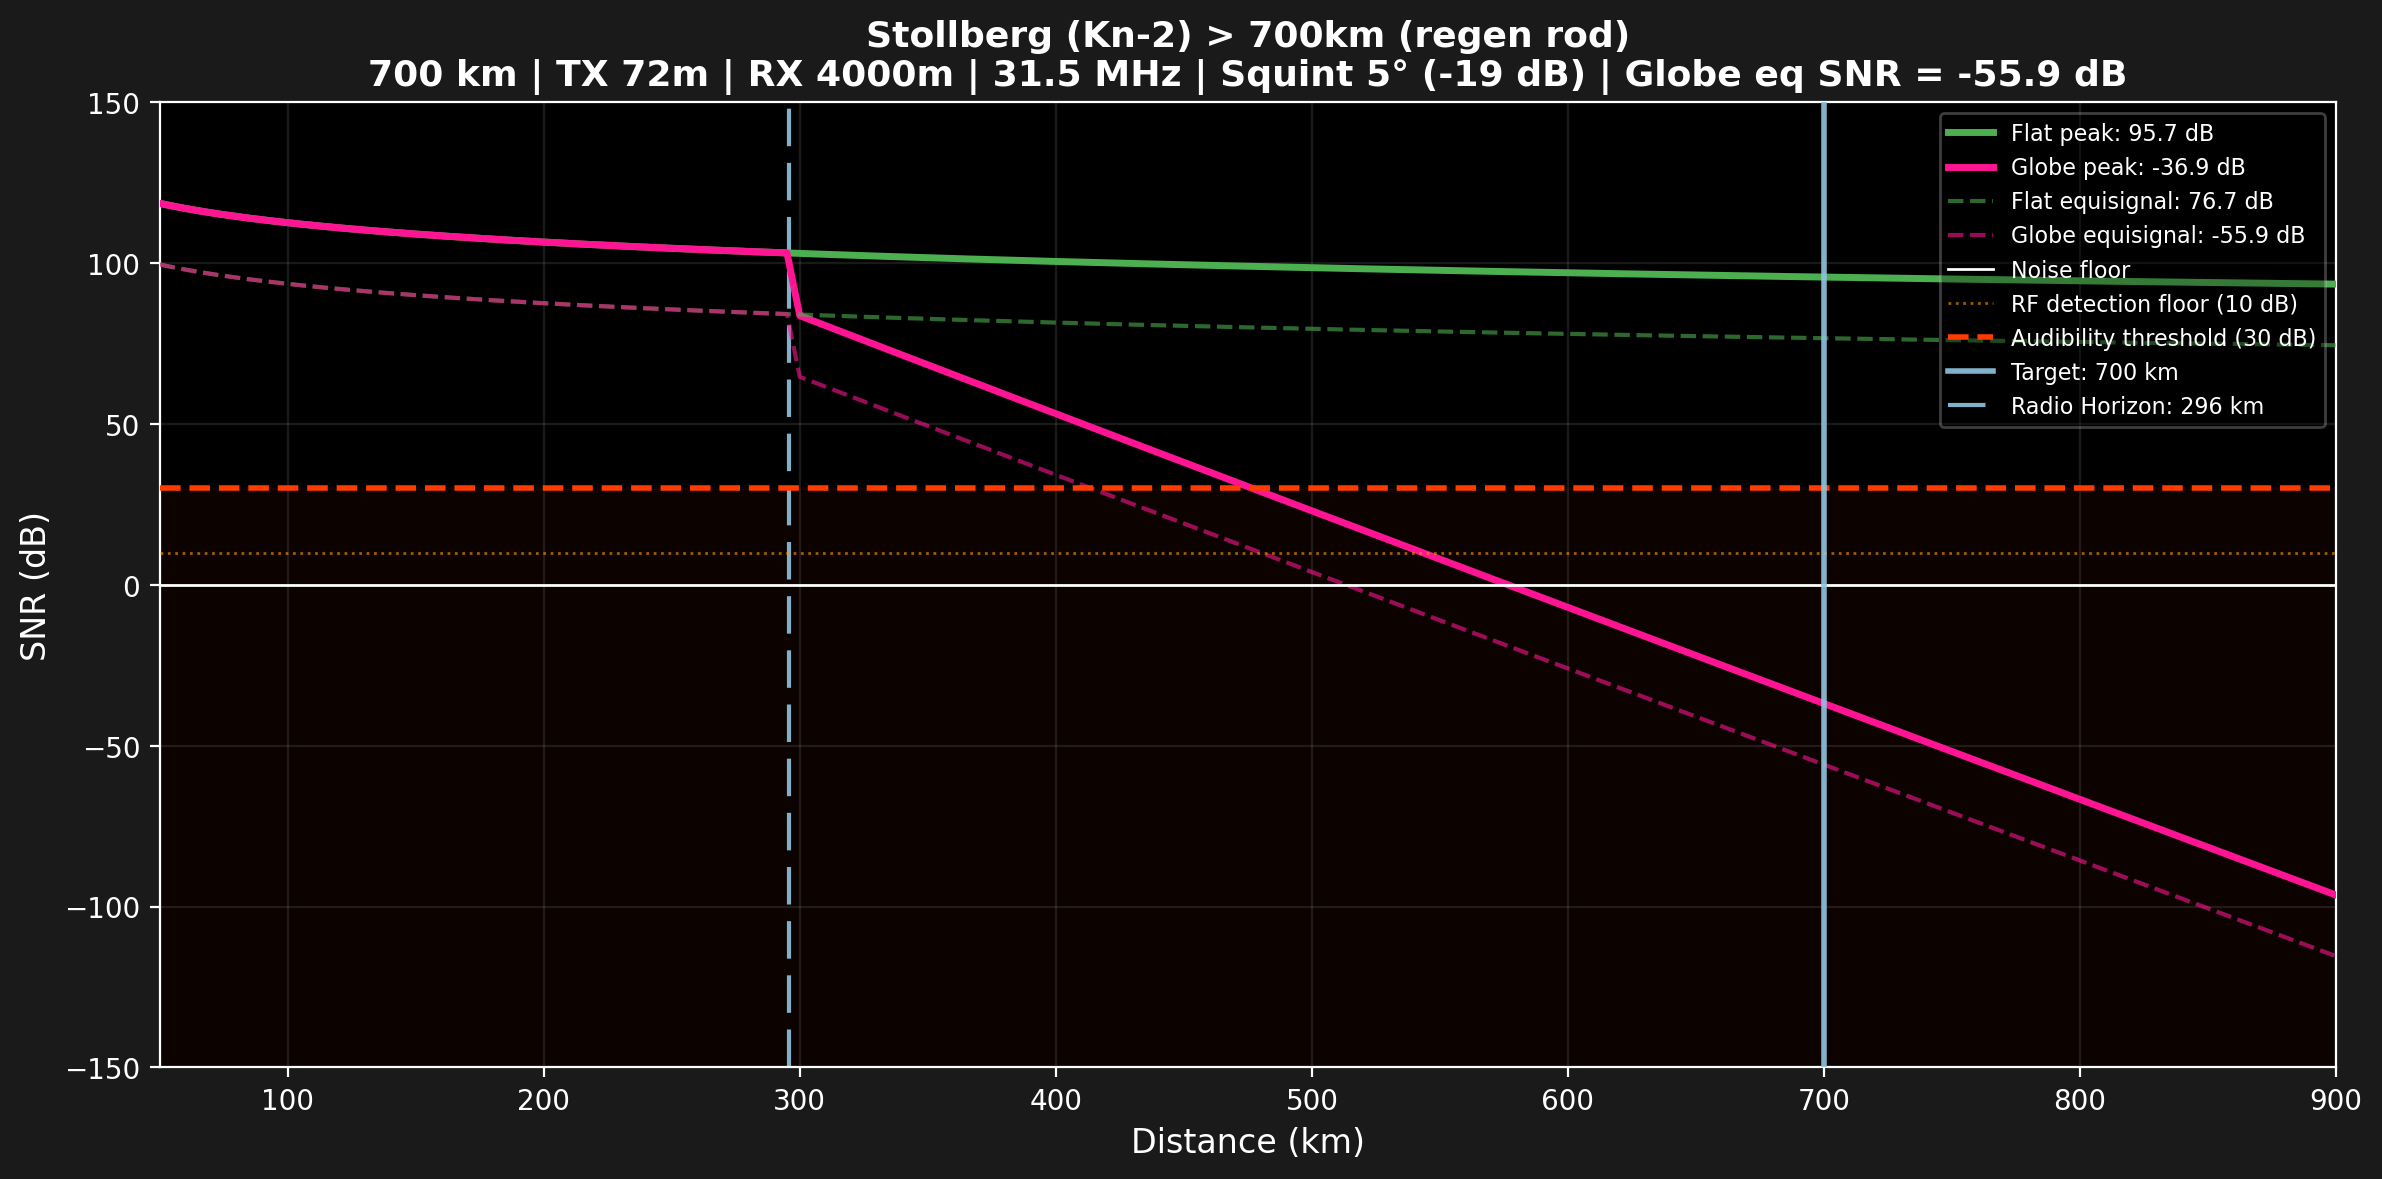
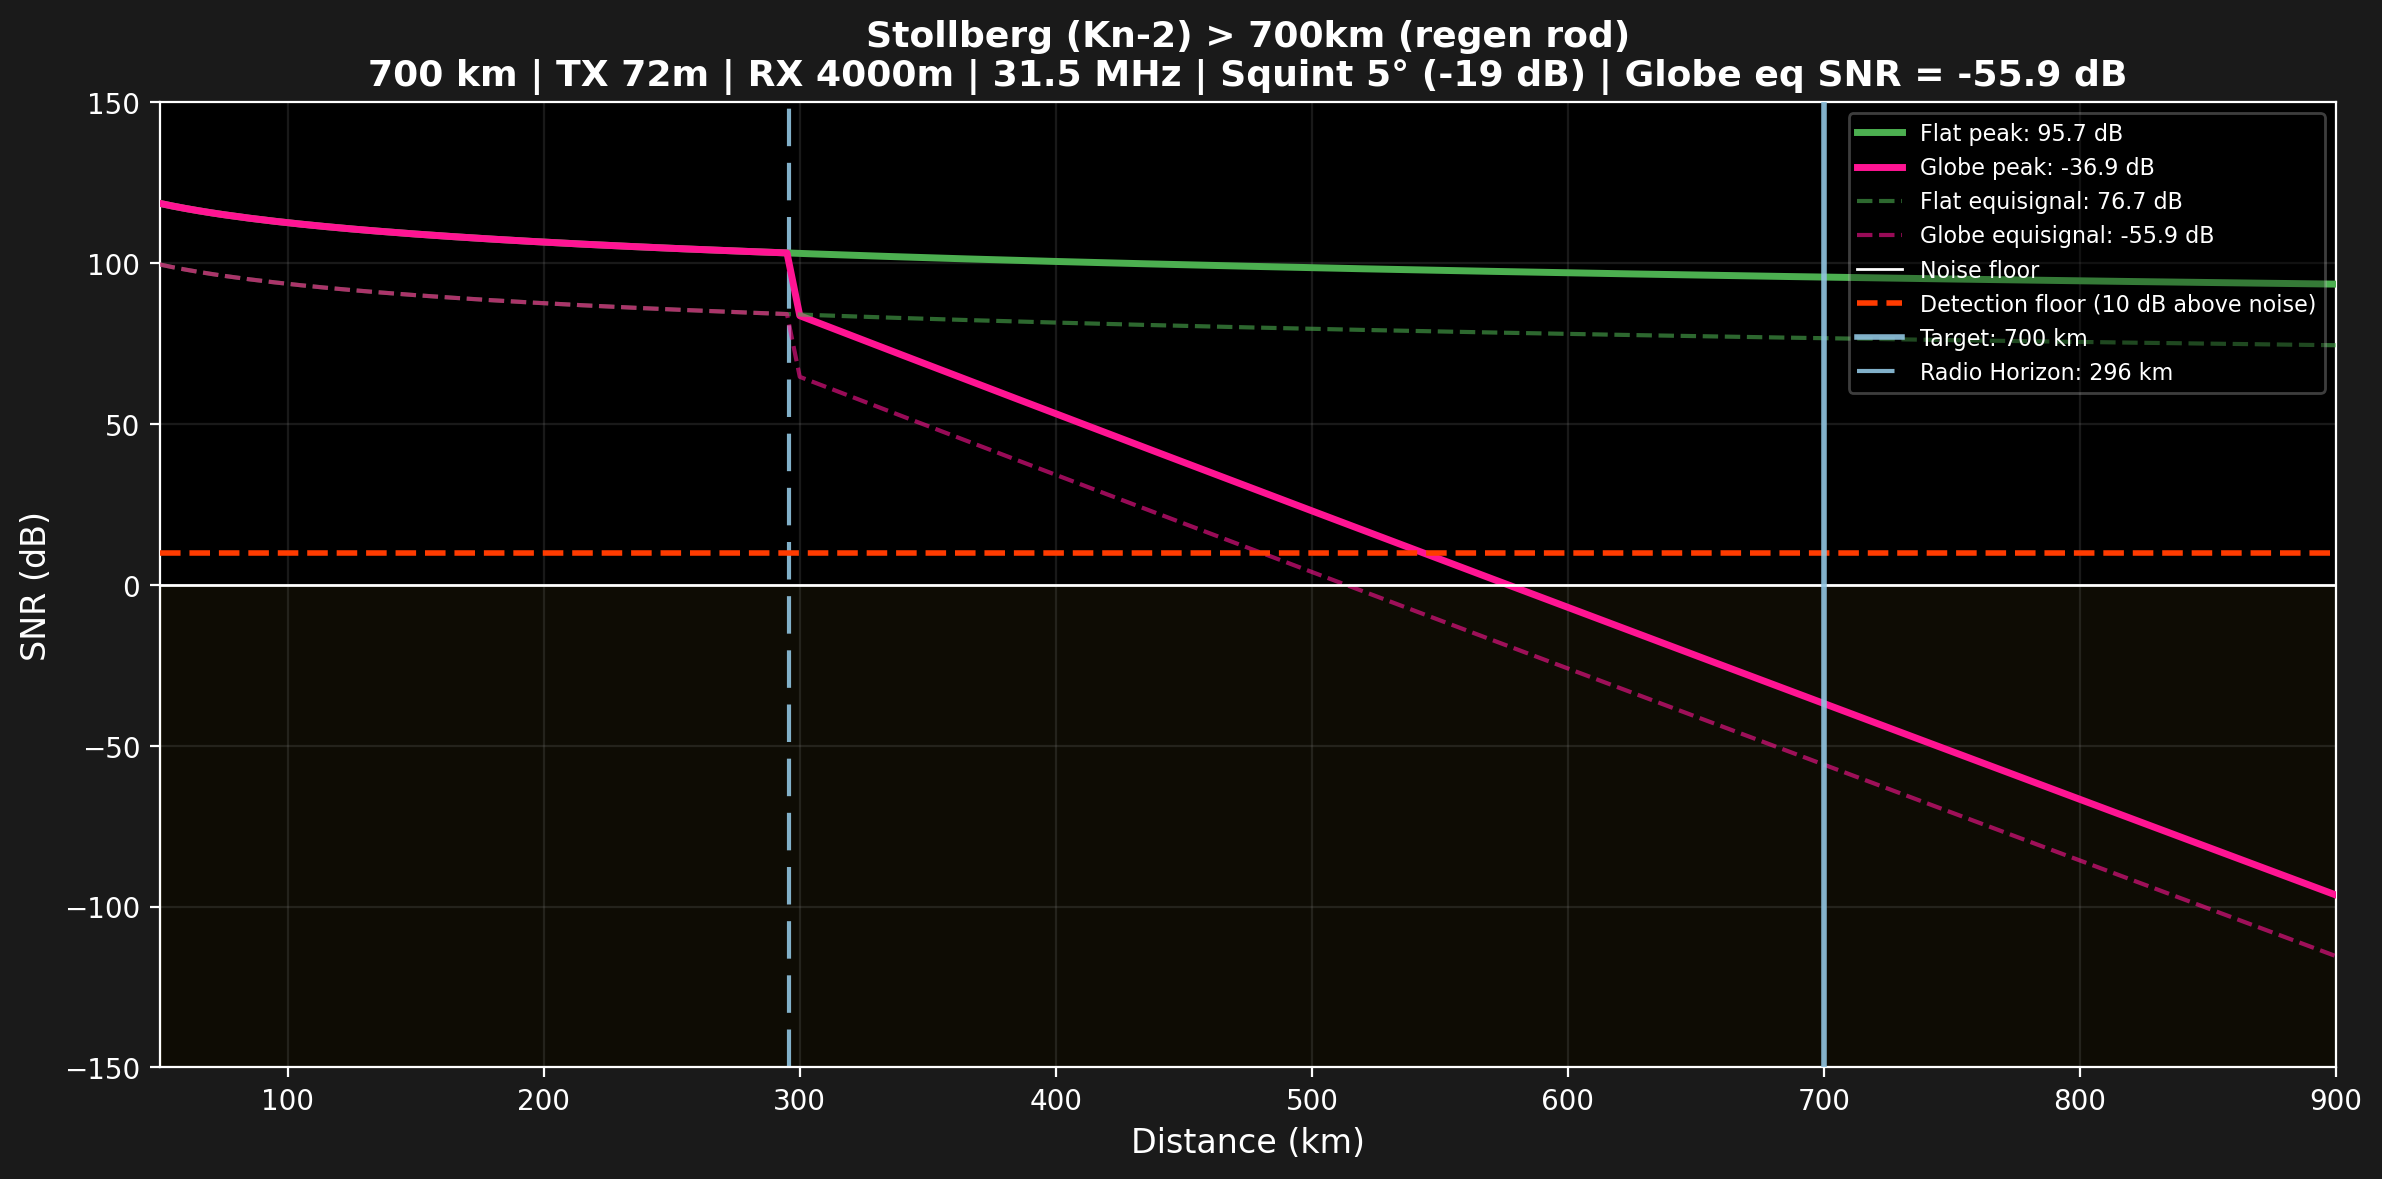
Remove acoustic audibility threshold, revert to RF noise floor
The +30 dB "operational audibility threshold" was based on the
false assumption that the EBL 3 was a non-AGC envelope detector
where audio output is linear in RF envelope.  D.(Luft) T.4058
§24 "Schaltung des EBL 3" shows the receiver actually has:

  - 1 RF amplifier stage
  - 1 mixer + local oscillator
  - 3 IF amplifier stages at 6 MHz
  - Detector stage
  - 2-stage audio-frequency amplifier
  - Full AGC on RF + first 2 IF stages
  - Manual sensitivity control (Empfindlichkeitsregler / W42)
  - Automatic volume control on top
  - Separate manual volume knob (Lautstärkeregler)

Primary-source German bomber crew testimony (Bundesarchiv RL
19-6/40 ref. 230Q18) states the Knickebein signals were "easily
heard" in operational He 111 cockpits, even through British
Aspirin/Headache jamming.  The receiver electronics deliver
audio at whatever SPL is needed as long as RF signal exists
above the antenna noise floor.

The operational criterion therefore reverts to:

  DETECT_dB = +10 dB above the ITU-R P.372 galactic noise floor

Classification:
  USABLE    >= +10 dB (clearly above noise, AGC delivers audio)
  MARGINAL   0 to +10 dB (at the noise floor)
  DEAD     < 0 dB (below thermal noise, no gain recovery)

Knickebein results with the corrected threshold:
  9 USABLE paths (all Kleve Midlands + French coast + TF_400
                  + Bauer max + Kleve Retford/Derby)
  2 MARGINAL (Kleve Birmingham +9.5, TF_500 +1.0)
  8 DEAD (all 4 Stollberg Midlands + TF_700/800/1000/1000b)
[…]

Changed region(s): [[0.7767, 0.0916, 0.9631, 0.3664], [0.0621, 0.458, 0.9631, 0.4885], [0.0621, 0.3969, 0.9631, 0.4275]]

diff --git a/botb_itu_analysis.py b/botb_itu_analysis.py
@@ -147,54 +147,44 @@ N_FLOOR_dBW = N_THERMAL_dBW + max(RX_NF_dB, FA_dB)
 
 
 # ================================================================
-#  USABILITY THRESHOLDS
+#  USABILITY THRESHOLD
 # ================================================================
 #
-# Two physically distinct thresholds apply to the Lorenz-style
-# audible equisignal system:
+# The operational criterion for the BotB null hypothesis is whether
+# the RF signal is physically present at the receiver antenna above
+# the galactic + thermal noise floor.  The FuBl 2 / EBL 3 airborne
+# receiver has full AGC on its RF and first two IF stages, a manual
+# sensitivity knob (Empfindlichkeitsregler), an automatic volume
+# control, and a two-stage AF amplifier (D.(Luft) T.4058 Feb 1943,
+# Section 24 "Schaltung des EBL 3").  Once RF signal is above the
+# detection floor, the receiver electronics amplify it to audible
+# SPL at the pilot's earphones; the cockpit acoustic environment is
+# not a meaningful bottleneck.  Primary-source German bomber crew
+# testimony (Bundesarchiv-MA RL 19-6/40 ref. 230Q18) confirms the
+# Knickebein signals were "easily heard" in operational He 111
+# cockpits, even through British Aspirin/Headache jamming.
 #
-#   RF_DETECT_dB  -- bare RF detection (audible hiss vs. signal at
-#                    the detector output).  This is the traditional
-#                    receiver-sensitivity criterion: signal >= ~10 dB
-#                    above the galactic/thermal noise floor in the
-#                    IF bandwidth.  Corresponds to a trained operator
-#                    just being able to tell a tone is present over
-#                    the hiss of an isolated receiver on a bench.
+# We therefore use:
 #
-#   AF_AUDIBLE_dB -- operational audibility of the 1150 Hz keying tone
-#                    AT THE AIRCREW'S EARDRUM over the cockpit acoustic
-#                    noise floor, through the headphones.
+#   DETECT_dB = +10 dB above the ITU-R P.372 galactic noise floor
+#               (bare detection, standard radio-propagation threshold)
 #
-# Budget for AF_AUDIBLE (see sources/README_primary_sources_digest.md):
+# Paths below 0 dB are DEAD (signal below thermal noise, no gain
+# chain can amplify it).  Paths from 0 to +10 dB are MARGINAL.
+# Paths >= +10 dB are USABLE.
 #
-#   Wellington IA Pegasus W/T position, 2600 rpm cruise
-#   (He 111 proxy, ARC R&M 2296 Table 3):
-#     600-1200 Hz octave band ....................... 104 dB SPL
-#     octave -> critical band at 1150 Hz (-6 dB) .....  98 dB SPL
-#     LKp W100 headset passive attenuation ...........  -5 dB
-#     Cockpit noise leaking past headset ..............  93 dB SPL
-#     Required tone-over-masker margin (Fletcher) ....  +10 dB
-#     Required 1150 Hz tone SPL at eardrum ............ 103 dB SPL
-#
-#   1940s 2 kOhm Dfh.b magnetic earphone at ~2 mW
-#   produces ~100-110 dB SPL at the eardrum at max drive.
-#   The receiver must therefore run its AF stage at
-#   near-maximum, which in a non-AGC 1940s AM detector
-#   requires RF input roughly +20-30 dB above the bare
-#   detection threshold.
-#
-#   Luftwaffe Nutzbereich chart (Bundesarchiv-MA RL 19-6/40,
-#   ref. 230Q7, 1939) defines the usable region explicitly
-#   as "based on beacon signals audibility" -- i.e. this
-#   operational bound, NOT a uV RF threshold.
-#
-# We therefore use +30 dB above the galactic noise floor as the
-# minimum operational threshold.  This is our primary usability
-# criterion.  The +10 dB detection floor is retained as a secondary
-# reference line on the graphs for comparison with the older
-# analysis.
-RF_DETECT_dB = 10.0
-AF_AUDIBLE_dB = 30.0
+# The previously-used +30 dB "operational audibility" threshold was
+# based on the assumption that the EBL 3 was a non-AGC envelope
+# detector where audio output is linear in RF input.  The primary
+# source (D.(Luft) T.4058 Section 24) shows the receiver actually
+# has full AGC + manual gain + ALC + 2-stage AF amp, so audio output
+# is approximately constant across a wide RF input range.  The +30
+# dB threshold has been removed; the receiver electronics do the
+# work once the signal exists at the antenna.
+DETECT_dB = 10.0
+# Legacy alias names kept so older graph code still imports cleanly
+RF_DETECT_dB = DETECT_dB
+AF_AUDIBLE_dB = DETECT_dB
 
 
 # ================================================================
@@ -506,8 +496,7 @@ def print_results(results):
     print(f"  TX power: {P_TX:.0f} W ({10*np.log10(P_TX):.1f} dBW)")
     print(f"  TX gain: {G_DIR_dB:.1f} dBi (aperture {L_H}m x {H_V}m)")
     print(f"  Equisignal crossover: {CROSSOVER_dB:.0f} dB (5 deg squint, ~500 yd)")
-    print(f"  RF detection floor:  +{RF_DETECT_dB:.0f} dB (receiver hiss)")
-    print(f"  Audibility threshold: +{AF_AUDIBLE_dB:.0f} dB (cockpit acoustic, primary)")
+    print(f"  Detection floor: +{DETECT_dB:.0f} dB above noise (AGC/ALC delivers audible tone above this)")
     print(SEP)
 
     # Group by type
@@ -533,14 +522,16 @@ def print_results(results):
 
         for r in group:
             d_km = r["distance_m"] / 1000.0
-            # Binary classification: the +30 dB audibility threshold is the
-            # only operational criterion.  Below it, the path fails, full
-            # stop.  DEAD is a subcategory meaning the signal is literally
-            # below the thermal noise floor (not just below audibility).
-            if r["globe_SNR_eq"] >= AF_AUDIBLE_dB:
+            # Three-way classification against the receiver noise floor:
+            #   USABLE   >= +10 dB (clearly above noise, AGC chain delivers
+            #                      audible tone)
+            #   MARGINAL  0 to +10 dB (at or near the noise floor)
+            #   DEAD     < 0 dB (below thermal + galactic noise, no gain
+            #                    chain can recover signal)
+            if r["globe_SNR_eq"] >= DETECT_dB:
                 status = "USABLE"
             elif r["globe_SNR_eq"] >= 0:
-                status = "UNUSABLE"
+                status = "MARGINAL"
             else:
                 status = "DEAD"
 
@@ -555,26 +546,25 @@ def print_results(results):
     print("  SUMMARY")
     print(f"  {'=' * 86}")
 
-    usable   = [r for r in results if r["globe_SNR_eq"] >= AF_AUDIBLE_dB]
-    unusable = [r for r in results if 0 <= r["globe_SNR_eq"] < AF_AUDIBLE_dB]
+    usable   = [r for r in results if r["globe_SNR_eq"] >= DETECT_dB]
+    marginal = [r for r in results if 0 <= r["globe_SNR_eq"] < DETECT_dB]
     dead     = [r for r in results if r["globe_SNR_eq"] < 0]
 
-    print(f"\n  Globe equisignal USABLE (>= {AF_AUDIBLE_dB:.0f} dB):  {len(usable)} paths")
+    print(f"\n  Globe equisignal USABLE (>= {DETECT_dB:.0f} dB above noise floor): "
+          f"{len(usable)} paths")
     for r in usable:
-        margin = r["globe_SNR_eq"] - AF_AUDIBLE_dB
+        margin = r["globe_SNR_eq"] - DETECT_dB
         print(f"    {r['tx_station']} > {r['target']}: "
               f"{r['distance_m']/1000:.0f} km, "
               f"globe eq SNR = {r['globe_SNR_eq']:.1f} dB "
-              f"(+{margin:.1f} dB over threshold)")
+              f"(+{margin:.1f} dB over detection floor)")
 
-    print(f"\n  Globe equisignal UNUSABLE (0-{AF_AUDIBLE_dB:.0f} dB, "
-          f"fails audibility): {len(unusable)} paths")
-    for r in unusable:
-        deficit = AF_AUDIBLE_dB - r["globe_SNR_eq"]
+    print(f"\n  Globe equisignal MARGINAL (0 to {DETECT_dB:.0f} dB, "
+          f"at the noise floor): {len(marginal)} paths")
+    for r in marginal:
         print(f"    {r['tx_station']} > {r['target']}: "
               f"{r['distance_m']/1000:.0f} km, "
-              f"globe eq SNR = {r['globe_SNR_eq']:.1f} dB "
-              f"({deficit:.1f} dB BELOW threshold)")
+              f"globe eq SNR = {r['globe_SNR_eq']:.1f} dB")
 
     print(f"\n  Globe equisignal DEAD (< 0 dB, below noise floor): "
           f"{len(dead)} paths")
@@ -589,11 +579,11 @@ def print_results(results):
         print(f"\n  TELEFUNKEN RANGE ANALYSIS (4000m altitude, ITU height gain)")
         print(f"  Y_rx at 4000m = {tf_paths[0]['itu_Y2']:.2f}, "
               f"ITU G(Y_rx) = {tf_paths[0]['itu_G_Y2_dB']:.1f} dB")
-        tf_dead = [r for r in tf_paths if r["globe_SNR_eq"] < AF_AUDIBLE_dB]
-        tf_ok   = [r for r in tf_paths if r["globe_SNR_eq"] >= AF_AUDIBLE_dB]
-        print(f"  Globe reaches audibility threshold ({AF_AUDIBLE_dB:.0f} dB) at: "
+        tf_dead = [r for r in tf_paths if r["globe_SNR_eq"] < DETECT_dB]
+        tf_ok   = [r for r in tf_paths if r["globe_SNR_eq"] >= DETECT_dB]
+        print(f"  Globe reaches detection floor ({DETECT_dB:.0f} dB) at: "
               f"{len(tf_ok)}/{len(tf_paths)} configs")
-        print(f"  Globe FAILS audibility threshold at:                      "
+        print(f"  Globe FAILS detection floor at: "
               f"{len(tf_dead)}/{len(tf_paths)} configs")
 
 
@@ -609,8 +599,7 @@ def generate_per_path_graphs(results, outdir=None, prefix="itu"):
       - Flat model SNR (green line)
       - Globe model SNR with ITU P.526 (red line)
       - Noise floor (white solid, thin)
-      - RF detection floor +10 dB (orange dotted, faint, secondary)
-      - Audibility threshold +30 dB (red dashed, bold, primary)
+      - Detection floor +10 dB (orange dashed, bold)
       - The actual path distance marked
     """
     if outdir is None:
@@ -680,15 +669,10 @@ def generate_per_path_graphs(results, outdir=None, prefix="itu"):
         # Noise floor (0 dB SNR): white solid, thin
         ax.axhline(y=0, color='white', linewidth=1.0, linestyle='-',
                    label='Noise floor', zorder=5)
-        # RF detection floor (10 dB): faint orange dotted -- secondary reference
-        ax.axhline(y=RF_DETECT_dB, color='#FF9800', linewidth=1.0,
-                   linestyle=':', alpha=0.6,
-                   label=f'RF detection floor ({RF_DETECT_dB:.0f} dB)',
-                   zorder=5)
-        # AF audibility threshold (30 dB): primary operational threshold
-        ax.axhline(y=AF_AUDIBLE_dB, color='#FF3B00', linewidth=2.0,
+        # Detection floor (10 dB): bold orange dashed
+        ax.axhline(y=DETECT_dB, color='#FF3B00', linewidth=2.0,
                    linestyle='--',
-                   label=f'Audibility threshold ({AF_AUDIBLE_dB:.0f} dB)',
+                   label=f'Detection floor ({DETECT_dB:.0f} dB above noise)',
                    zorder=5)
 
         # Mark actual path distance (target) - in front of signal curves
@@ -703,7 +687,7 @@ def generate_per_path_graphs(results, outdir=None, prefix="itu"):
                    label=f'Radio Horizon: {d_los:.0f} km')
 
         # Shade below audibility threshold (faint red)
-        ax.axhspan(-300, AF_AUDIBLE_dB, alpha=0.05, color='#FF3B00', zorder=0)
+        ax.axhspan(-300, 0, alpha=0.06, color='#FFD54F', zorder=0)
 
         # Labels
         title = f"{r['tx_station']} > {r['target']}"
@@ -800,15 +784,10 @@ def generate_per_path_graphs_equisignal_only(results, outdir=None, prefix="eq"):
         # Noise floor (0 dB SNR): white solid, thin
         ax.axhline(y=0, color='white', linewidth=1.0, linestyle='-',
                    label='Noise floor', zorder=5)
-        # RF detection floor (10 dB): faint orange dotted -- secondary reference
-        ax.axhline(y=RF_DETECT_dB, color='#FF9800', linewidth=1.0,
-                   linestyle=':', alpha=0.6,
-                   label=f'RF detection floor ({RF_DETECT_dB:.0f} dB)',
-                   zorder=5)
-        # AF audibility threshold (30 dB): primary operational threshold
-        ax.axhline(y=AF_AUDIBLE_dB, color='#FF3B00', linewidth=2.0,
+        # Detection floor (10 dB): bold orange dashed
+        ax.axhline(y=DETECT_dB, color='#FF3B00', linewidth=2.0,
                    linestyle='--',
-                   label=f'Audibility threshold ({AF_AUDIBLE_dB:.0f} dB)',
+                   label=f'Detection floor ({DETECT_dB:.0f} dB above noise)',
                    zorder=5)
 
         # Mark actual path distance (target) - in front of signal curves
@@ -823,7 +802,7 @@ def generate_per_path_graphs_equisignal_only(results, outdir=None, prefix="eq"):
                    label=f'Radio Horizon: {d_los:.0f} km')
 
         # Shade below audibility threshold (faint red)
-        ax.axhspan(-300, AF_AUDIBLE_dB, alpha=0.05, color='#FF3B00', zorder=0)
+        ax.axhspan(-300, 0, alpha=0.06, color='#FFD54F', zorder=0)
 
         # Labels
         title = f"{r['tx_station']} > {r['target']}"
@@ -1039,13 +1018,9 @@ def generate_master_comparison(results, outdir=None):
     # Noise floor and thresholds
     ax.axhline(y=0, color='#FFD54F', linewidth=2, linestyle='--',
                label='Noise floor', zorder=5)
-    ax.axhline(y=RF_DETECT_dB, color='#FF9800', linewidth=1.0,
-               linestyle=':', alpha=0.6,
-               label=f'RF detection floor ({RF_DETECT_dB:.0f} dB)',
-               zorder=5)
-    ax.axhline(y=AF_AUDIBLE_dB, color='#FF3B00', linewidth=2.0,
+    ax.axhline(y=DETECT_dB, color='#FF3B00', linewidth=2.0,
                linestyle='--',
-               label=f'Audibility threshold ({AF_AUDIBLE_dB:.0f} dB)',
+               label=f'Detection floor ({DETECT_dB:.0f} dB above noise)',
                zorder=5)
 
     # Value labels
